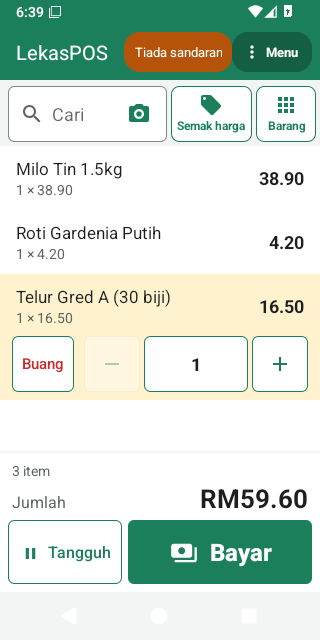
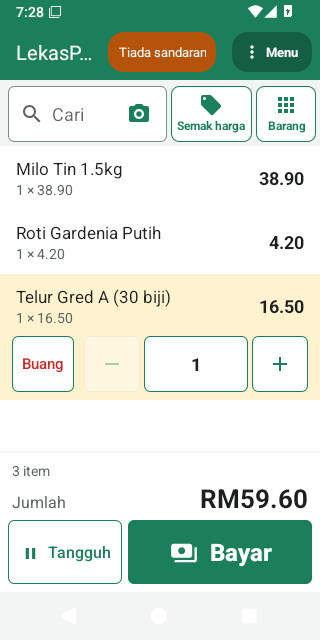
1.17.2 test build published (build 184); guide pictures

Changed region(s): [[0.25, 0.0312, 0.75, 0.125], [0.0312, 0.0, 0.1562, 0.0312], [0.8438, 0.0, 0.875, 0.0312]]

diff --git a/docs/PHASES.md b/docs/PHASES.md
@@ -39,7 +39,7 @@ to the user. **The next phase starts only after the user's real-device feedback.
 | — | **1.16.1**: a clock corrected back a moment no longer signs the cashier out after Android restarted the app (D-075) | **released** 2026-10-12 (v1.16.1, build 173) — the owner tested it on the phone (2026-10-13): "all good"; offered in the app to shops on 1.6.1+ |
 | — | **1.16.0**: icons and groups — the Menu as one sheet of tiles (This bill, Till, Manage shop: the back office one tap away), Settings in five groups with icons, icons on Inventory, the main buttons and payment methods, product pictures in the Products list, red Delete buttons, four misleading texts fixed (D-074) | **released** 2026-10-12 (v1.16.0, build 169) — the owner asked to release it without a test build first; offered in the app to shops on 1.6.1+; phone checks still to run |
 | — | **1.15.0**: a multi-buy with several prices ("2 for RM3, 3 for RM4"), the bill takes the cheapest mix; promotions made per price on the same products combine (D-073) | **released** 2026-10-12 (v1.15.0, build 162) — the owner tested it: "all good"; offered in the app to shops on 1.6.1+ |
-| — | **1.17.0**: the owner's feedback on 1.16.1 — every tappable control looks like a button (dialog buttons, payment, "Tap here" texts); the catalogue opens on All; held sideways the tiles start at the top; no Share after a sale; Settings → Beep sound (this till's speaker by default, not the cast TV) (D-076) | test builds v1.17.0 (build 180), v1.17.1 (build 182: the bill right under the bar again, Menu a pill) → **1.17.2** on branch `ui-feedback`: Menu apart from the cashier's name |
+| — | **1.17.0**: the owner's feedback on 1.16.1 — every tappable control looks like a button (dialog buttons, payment, "Tap here" texts); the catalogue opens on All; held sideways the tiles start at the top; no Share after a sale; Settings → Beep sound (this till's speaker by default, not the cast TV) (D-076) | test builds v1.17.0 (build 180), v1.17.1 (build 182: the bill right under the bar again, Menu a pill) and **v1.17.2** (build 184: Menu apart from the cashier's name) — waiting for the owner's phone check |
 
 ## Open questions for the user
 
@@ -2090,7 +2090,12 @@ bill only") and where Share goes ("remove after a sale only").
       before Menu took the room) → the store name's minimum on the first line 72dp (was 96; it ends in "…"); new test
       `oneShortPillStaysBesideMenuOnASmallPhone` (320dp, the cashier's name or "Not backed up" in EN/MS: one line)
 - [x] Docs: `features.md`, D-076, this file. User guide: no words changed (pictures refreshed)
-- [ ] CI; guide pictures; test build v1.17.2
+- [x] CI run 38296668919 (915beba, build 184): all jobs green. Release APK **1,659,303 bytes**. Guide pictures (phone
+      `sell`, `sell-empty`, `pay`, `pay-cash`, `menu`, `settings`, `tablet-sell`, EN + MS) from it
+- [x] **Test build v1.17.2** (2026-10-13): pre-release on 915beba, build 184; SHA-256 `a59d2a7d…bb5b`; certificate
+      `0a67abec…d4b9`. 1.16.1 stays the latest release
+- [ ] The owner's phone check; then merge `ui-feedback` into `main`, perf FULL, public release (smoke baseline, guide's
+      "For LekasPOS 1.17.2")
 
 ### Needs real-device testing (1.17.0)
 
